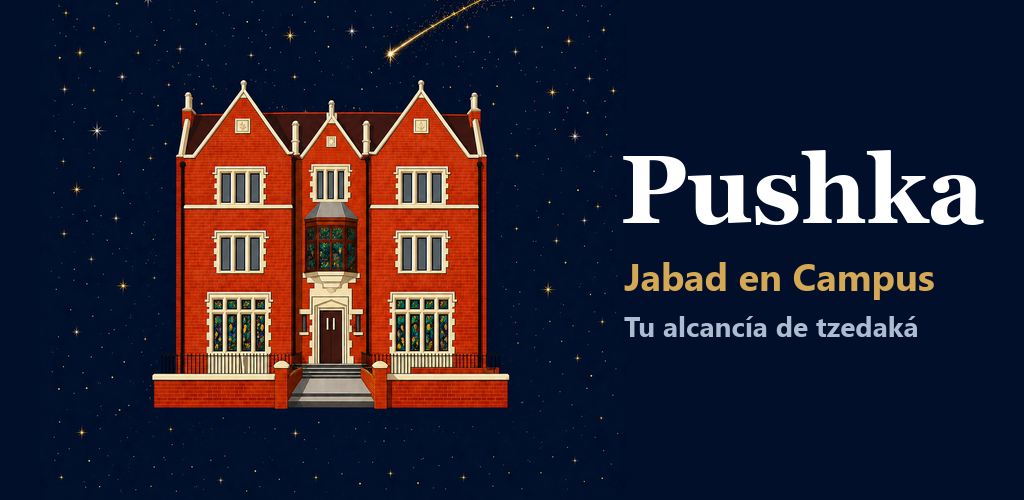
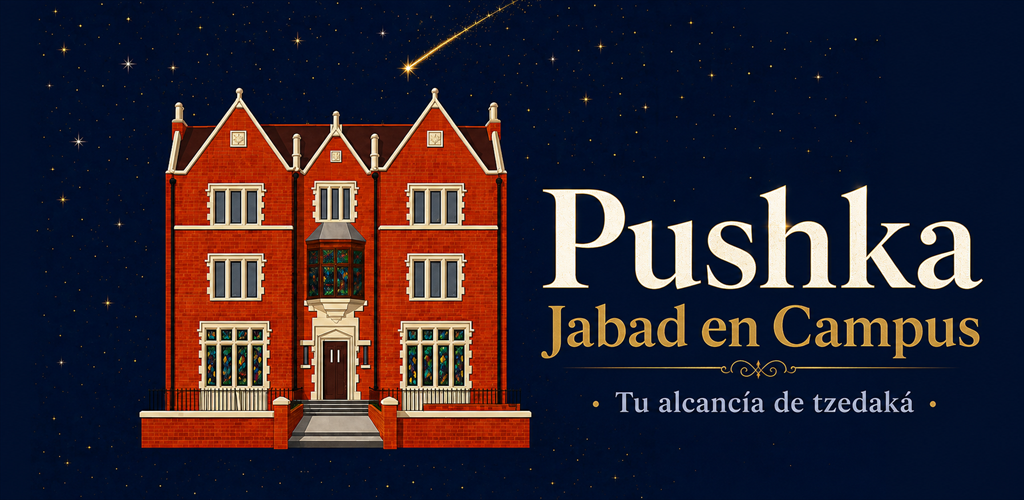
docs(play): ficha completa — textos en txt y capturas en los tamanos que pide cada seccion
La seccion "Configura tu app" de Play Console quedo cerrada entera.

Los textos pasan a .txt plano en docs/store-assets/texto-ficha/ porque
pegarlos desde el markdown aplastaba los saltos de parrafo en el formulario.
El codigo JYM-770 queda publicado en la descripcion por decision de Ioel: ya
estaba publico en la landing de instalacion, asi que no revela nada nuevo.

Las capturas se rehicieron por tamano porque cada seccion de Play pide algo
distinto, y 9:16 es 0,5625 — ni las nativas del S25 (0,462) ni las recortadas
a 1080x2160 (0,5) cumplian:

  play-9x16/       1080x1920, desde las nativas
  play-9x16-v2/     900x1600, las que se subieron
  tablet-7/         900x1600
  landscape-16x9/  1920x1080, para tablet 10" y Chromebook

Ninguna se recorta ni se estira: se centra la captura y las barras laterales
replican una columna tomada 10-30 px adentro del borde. Del borde mismo no
sirve — en las capturas de la PWA ese pixel es la barra de scroll y deja una
raya gris visible.

Grafico destacado nuevo (el anterior queda como -anterior.png) e icono en
version RGBA por si Play exige el PNG de 32 bits que documenta.

diff --git a/docs/play-store-listing.md b/docs/play-store-listing.md
@@ -39,36 +39,37 @@ pegar desde WhatsApp el "—" se convierte en dos guiones.
 La pushka de Jabad en Campus: la alcancía de siempre, en tu teléfono.
 ```
 
-## Descripción completa — 2963 de 4000 caracteres
+## Descripción completa — 2884 de 4000 caracteres
 
 > Play muestra solo las **tres primeras líneas** antes del botón "Más
-> información". El primer párrafo mide 189 caracteres, así que entra entero.
+> información". El primer párrafo mide 223 caracteres: Play va a cortarlo cerca del final y
+> mostrar "Más información".
 > La palabra "pushka" ya no aparece ahí — Ioel prefirió cerrar el párrafo en la
 > misión — pero sí está en la descripción corta, que Play muestra siempre
 > arriba de todo.
 
 ```
-En Jabad en Campus trabajamos con jóvenes judíos de Ciudad de México que crecieron lejos de sus raíces. Los invitamos a un Shabat, a un asado, a ponerse tefilín, a conectar con su judaísmo.
+En Jabad en Campus trabajamos con jóvenes judíos de Ciudad de México que crecieron un poco lejos de sus raíces. Los invitamos a un Shabat, a un asado, a ponerse tefilín, a conocer gente, a volver a conectar con su judaísmo.
 
-Un viernes cualquiera hay jalá en la mesa, ensaladas, dos que discuten de futbol y alguien acomodando sillas de más. Siempre faltan sillas. Nadie pregunta hace cuánto no pisan una sinagoga. Hay chavos que vienen una vez y ya; otros llegaron porque un amigo les insistió, todavía no saben bien a qué, y a las once de la noche siguen ahí.
+Cada Shabat hay jalá en la mesa, ensaladas, risas e historias fascinantes. Siempre terminan faltando sillas. Vienes una vez y te quedas por siempre. Muchos llegan porque un amigo los invitó, sin saber muy bien qué esperar, pero a las doce de la noche siguen ahí, pasando un momento increíble.
 
-Una pushka es la alcancía de tzedaká que hay en toda casa judía. Se echa una moneda antes de salir, y el viernes antes de que entre Shabat. También cuando nace un sobrino o alguien sale bien de una operación.
+La pushka es la alcancía de tzedaká que está en tantas casas judías. En ella puedes poner una moneda antes de salir, el viernes antes de que empiece Shabat, cuando nace un hijo, alguien se recupera de una operación o simplemente tienes ganas de dar.
 
-La de la app funciona igual que la de la cocina. Tocas uno de los montos que ya están puestos, o los cambias por los tuyos, y se va juntando ahí adentro. No se te cobra nada en ese momento. El día que tú decides, vacías la pushka y se hace un solo cargo por el total, que se dona a Jabad en Campus.
+La aplicación funciona de manera sencilla: seleccionas el monto que prefieras y el importe se acumula en la pushka. En ese momento no se realiza ningún cargo. Cuando tú lo decidas, puedes vaciarla y se hará un único cargo por el total acumulado, que será donado a Jabad en Campus.
 
-Si prefieres no estar pendiente, puedes programar que se vacíe sola cada semana, cada mes o en Erev Rosh Jodesh, que es cuando muchos ya tienen la costumbre de dar. Ahí sí hay un cobro automático a la tarjeta que elijas: te llega el aviso cada vez que pasa, y puedes cambiarlo o apagarlo cuando quieras desde Ajustes. O te mandamos nada más un recordatorio y la vacías tú.
+Y si prefieres no estar pendiente, puedes programar que se vacíe sola cada semana, cada mes o en Erev Rosh Jodesh, cuando muchos ya tienen la costumbre de dar. En ese caso sí se hace un cobro automático a la tarjeta que elijas: te avisamos cada vez que pasa y puedes cambiarlo o apagarlo cuando quieras desde Ajustes. O, si prefieres, te mandamos solamente un recordatorio y la vacías tú.
 
-La app cuenta los días seguidos que llevas dando, y puedes ponerte una meta al mes y ver cuánto te falta. Todo lo que diste queda en el historial, con comprobante por correo de cada donación. El Rab lo dice así: en la tzedaká cuenta la constancia, no el monto.
+La app también cuenta los días seguidos que llevas dando. Puedes ponerte una meta mensual, ver cuánto llevas y cuánto te falta, y consultar todo en tu historial. Cada donación queda registrada y recibes su comprobante por correo. El Rab lo dice así: en la tzedaká importa la constancia, no el monto.
 
-Adentro hay también tefilot y segulot para leer, y un aviso cuando se acerca una festividad, por si el calendario hebreo te toma desprevenido. Puedes dar en pesos, dólares, shékels u otras monedas, y pedir huella o reconocimiento facial antes de donar o de vaciar. Está en español, inglés, francés y hebreo, para que cada quien la use en el idioma en que reza.
+Adentro hay también tefilot y segulot para leer, y avisos cuando se acerca una festividad. Puedes dar en pesos, dólares, shékels u otras monedas, y pedir huella o reconocimiento facial antes de donar o de vaciar la pushka. Está en español, inglés, francés y hebreo, para que cada quien pueda usarla en el idioma en que reza.
 
-Por qué la app te pide un código
+¿Por qué la app te pide un código?
 
-Porque es la pushka de una comunidad, no una app de donaciones abierta al público: lo que entra acá va a Jabad en Campus y a nadie más, y quien da tiene derecho a saber exactamente a dónde va. El código de invitación te lo da el Rab, y es gratis, igual que la app. Si llegaste hasta aquí y no lo tienes, escríbele y te lo pasa.
+Porque esta es la pushka de una comunidad, no una app de donaciones abierta al público. El código de invitación es JYM-770. Las donaciones van directamente a Jabad en Campus, y siempre sabrás a dónde va tu dinero.
 
-Los pagos los procesa Stripe. Tu tarjeta se escribe en la pantalla de Stripe y queda de su lado: en la app solo se ven la marca y los últimos cuatro dígitos, y puedes borrarla, o borrar tu cuenta entera, cuando quieras.
+Los pagos los procesa Stripe. Tu tarjeta se guarda directamente en la pantalla de Stripe dentro de la app, y puedes borrarla o incluso eliminar tu cuenta entera cuando quieras.
 
-Jabad en Campus es una organización judía sin fines de lucro. Las donaciones son voluntarias y no desbloquean funciones ni contenido dentro de la app. Lo que se junta entre todos ayuda a sostener el trabajo en Ciudad de México: los Shabatot, las comidas del viernes, ir a buscar a quien no tiene cómo llegar. Y las sillas, que siempre faltan.
+Jabad en Campus es una organización judía sin fines de lucro. Las donaciones son voluntarias y no desbloquean funciones ni contenido dentro de la app. Lo que juntamos entre todos ayuda a sostener el trabajo en Ciudad de México: Shabatot, viajes, asados y eventos; todo para que un judío más conecte con su esencia, con su neshamá.
 ```
 
 ---
